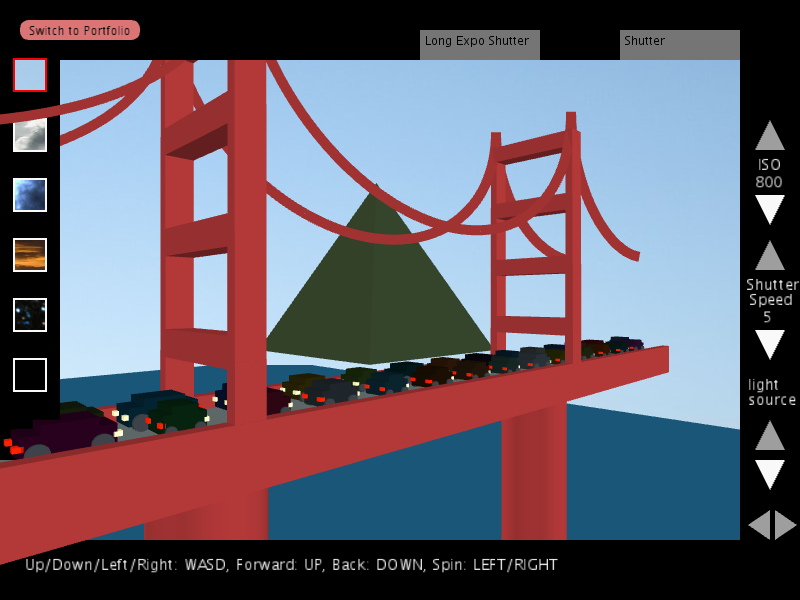
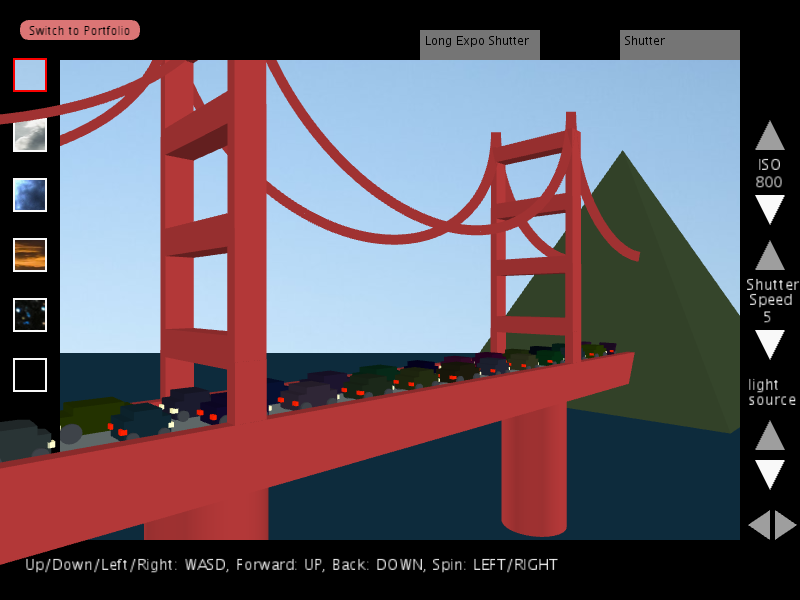
update viewfinder text for spin

Changed region(s): [[0.3125, 0.24, 0.9375, 0.9], [0.0, 0.57, 0.2812, 0.78], [0.125, 0.87, 0.1875, 0.9]]

diff --git a/FinalProject/src/worldSetting/Viewfinder.java b/FinalProject/src/worldSetting/Viewfinder.java
@@ -176,7 +176,7 @@ public class Viewfinder {
 		//key instruction text
 		marker.fill(255);
 		marker.textSize(15);
-		String keyDefinitions = "Up/Down/Left/Right: WASD, Forward: UP, Back: DOWN, Spin: LEFT/RIGHT";
+		String keyDefinitions = "Up/Down/Left/Right: WASD, Spin: UP/DOWN/LEFT/RIGHT";
 		marker.text(keyDefinitions, toggle.x, marker.height - 30);
 
 		//ISO up triangle
